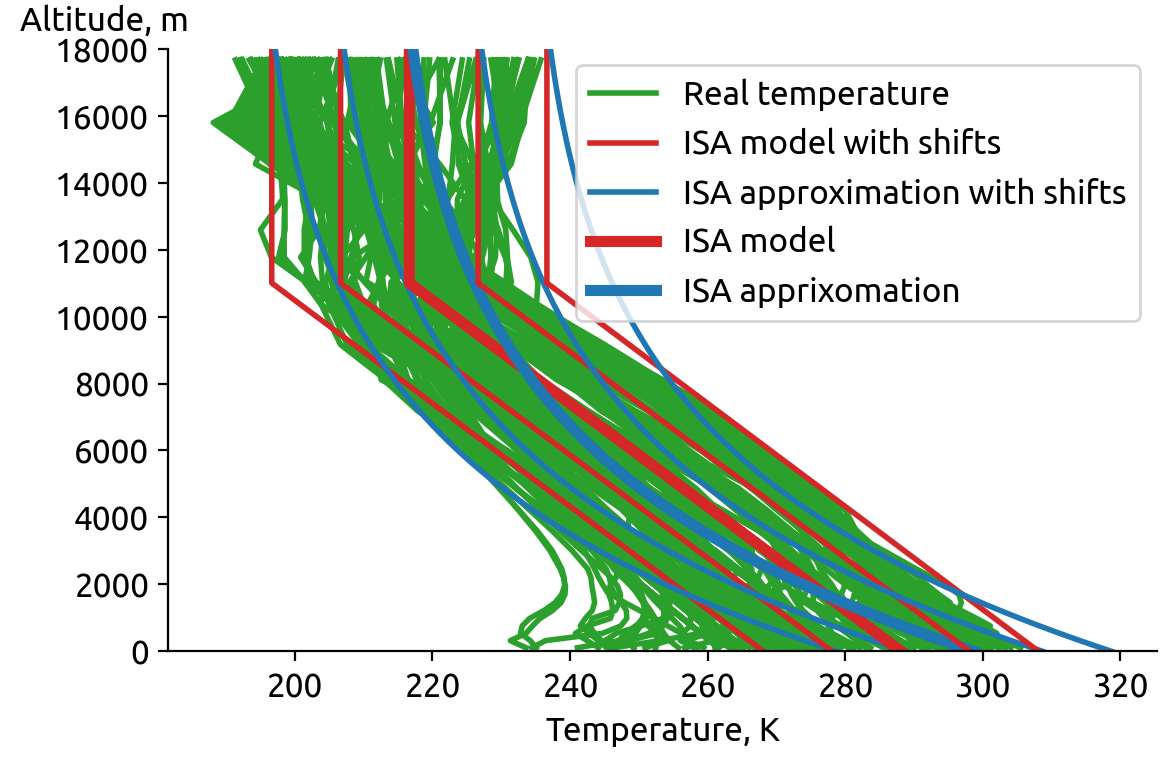
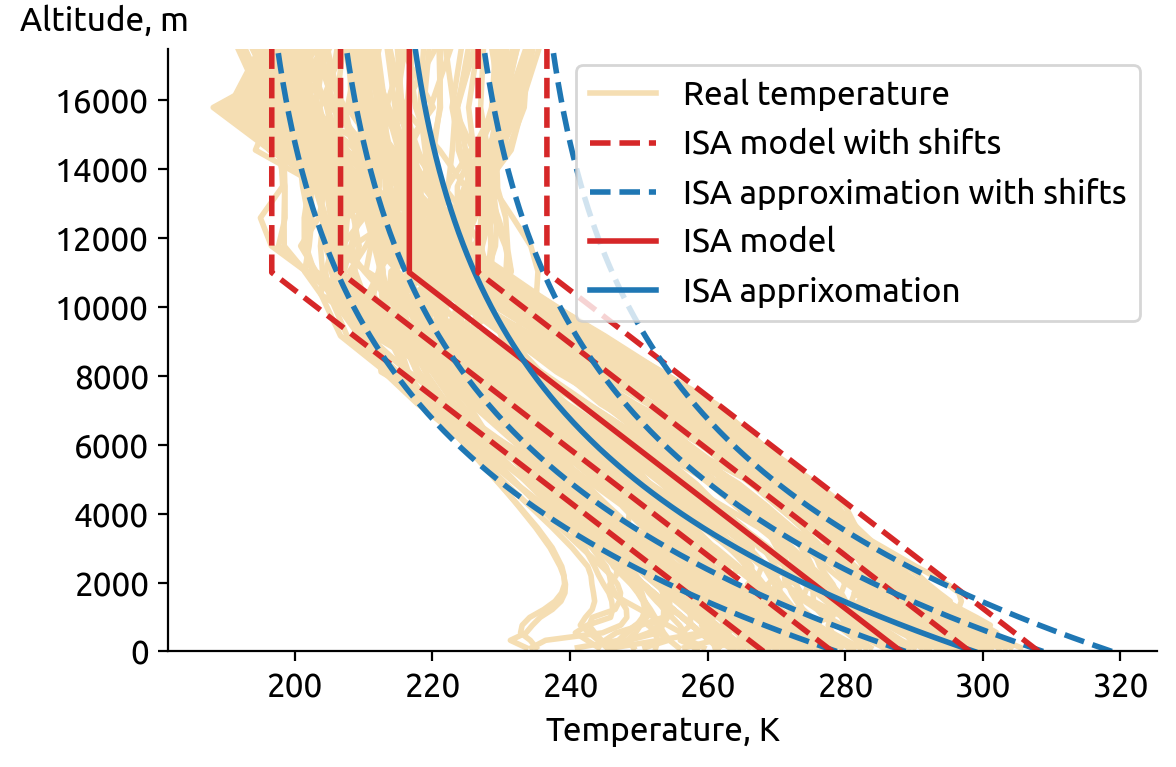
fix plots

diff --git a/paper_plots.py b/paper_plots.py
@@ -370,7 +370,7 @@ plt.savefig(
 plt.show()
 
 # %%
-fig = plt.figure(figsize=(12, 4))
+fig = plt.figure(figsize=(11, 4))
 gs = matplotlib.gridspec.GridSpec(4, 90)
 
 cmap = plt.get_cmap("viridis").reversed()
@@ -388,8 +388,8 @@ for ax in [ax1, ax2]:
     ax.set_ylabel("Altitude, ft", rotation=0, ha="left")
     ax.yaxis.set_label_coords(-0.15, 1.02)
 
-ax1.set_title("Real Flights", fontsize=12)
-ax2.set_title("Estimation using lookup tables", fontsize=12)
+ax1.set_title("Real Flights")
+ax2.set_title("Estimation using lookup tables")
 
 
 cbar = plt.colorbar(
@@ -410,7 +410,7 @@ plt.show()
 # %%
 fig = plt.figure(figsize=(6, 4))
 ax = fig.add_subplot()
-ax.hist(dataset_real.error, bins=50, color="tab:blue", edgecolor="gray")
+ax.hist(dataset_real.error, bins=40, color="tab:blue", edgecolor="gray")
 mu1 = dataset_real.error.abs().mean()
 median1 = dataset_real.error.median()
 sigma1 = dataset_real.error.std()
@@ -575,7 +575,7 @@ df_three_feat = df_three_feat.assign(
 ###############
 plt.figure(figsize=(6, 4))
 ax = plt.gca()
-ax.hist(df_three_feat.error, bins=60)
+ax.hist(df_three_feat.error, bins=40, edgecolor="gray")
 mu1 = df_three_feat.error.abs().mean()
 median1 = df_three_feat.error.median()
 sigma1 = df_three_feat.error.std()
@@ -639,17 +639,17 @@ for i in range(-90, 90, 10):
         ax.plot(
             df_wind.query("latitude == @i and longitude == @j").t,
             df_wind.query("latitude == @i and longitude == @j").altitude * 0.3048,
-            "tab:green",
+            "wheat",
             label="Real temperature" if i == 0 and j == 0 else "_nolegend_",
         )
 for i in range(-20, 30, 10):
     if i == 0:
-        ax.plot(np.array(temp) + i, h, "tab:red", linewidth=4, label="ISA model")
+        ax.plot(np.array(temp) + i, h, "tab:red", label="ISA model")
         ax.plot(
             np.array(temp_exp) + i,
             h,
             "tab:blue",
-            linewidth=4,
+            # linewidth=4,
             label="ISA apprixomation",
         )
     else:
@@ -657,15 +657,17 @@ for i in range(-20, 30, 10):
             np.array(temp) + i,
             h,
             "tab:red",
+            linestyle="dashed",
             label="ISA model with shifts" if i == -10 else "_nolegend_",
         )
         ax.plot(
             np.array(temp_exp) + i,
             h,
             "tab:blue",
+            linestyle="dashed",
             label="ISA approximation with shifts" if i == -10 else "_nolegend_",
         )
-ax.set_ylim(0, 18000)
+ax.set_ylim(0, 17500)
 # ax.grid(True)
 
 ax.set_xlabel("Temperature, K")
